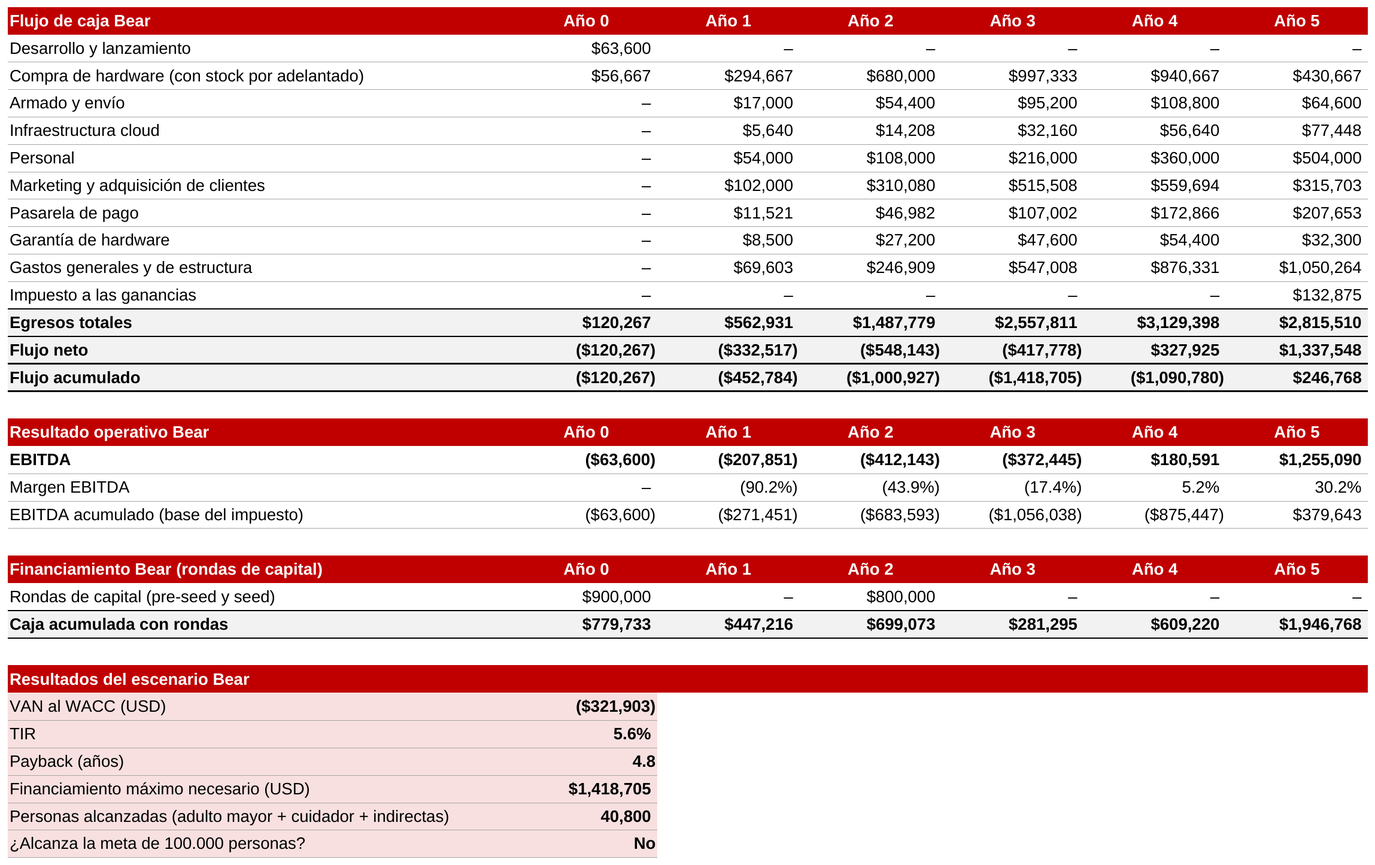
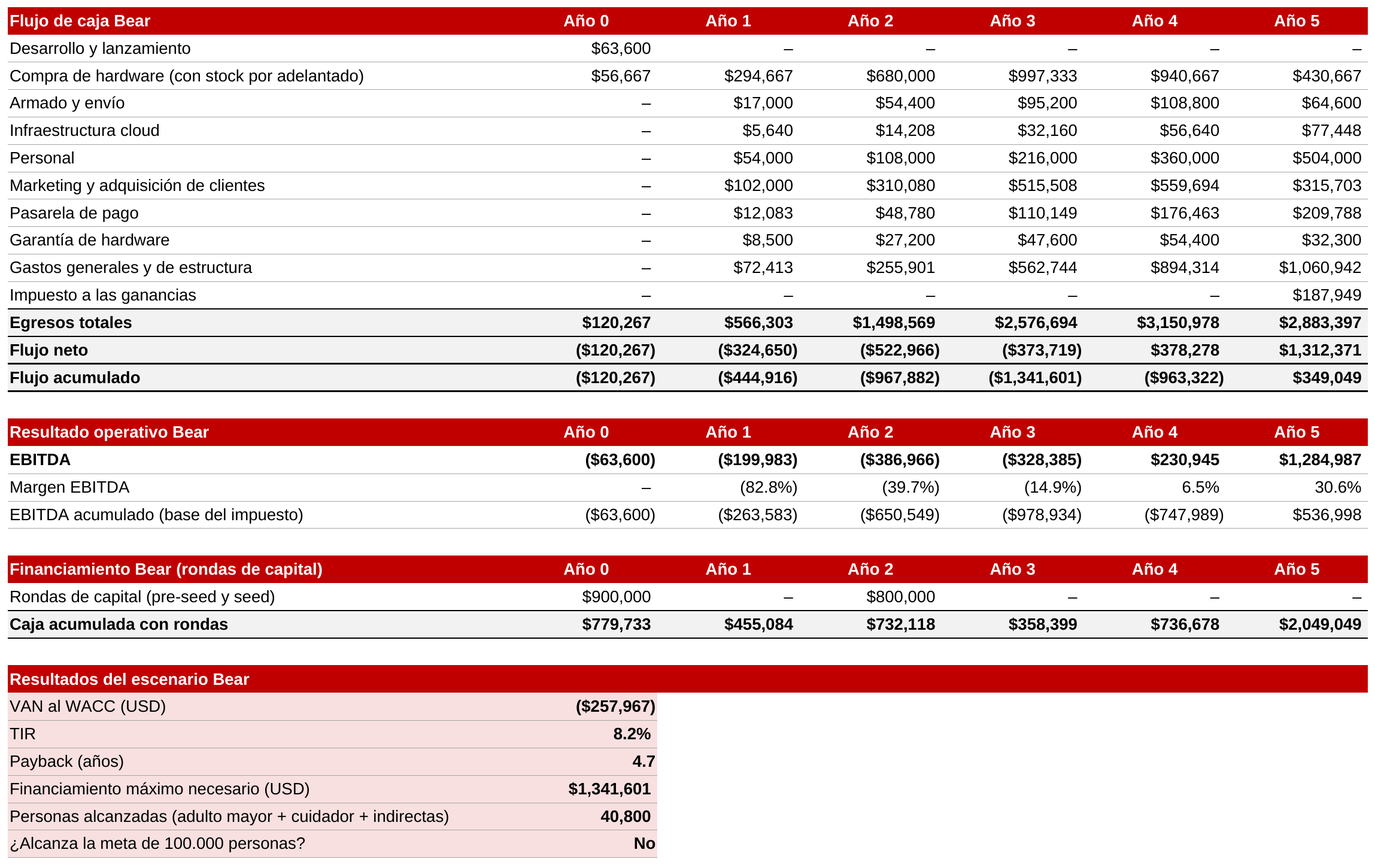
Corrige inconsistencias de la 3.9 y actualiza el modelo financiero a la v14
Resuelve el diagnóstico completo de la sección 3.9 (Modelo de negocio y
viabilidad económica): agrega precio por cámara IP adicional, alinea el
lenguaje de suscripción entre 3.6 y 3.9, actualiza el FODA y la nota de la
Tabla 3.III para reflejar que la 3.9 ya proyecta costos y precios, precisa
el respaldo del impacto social por kit en la entrevista y el User Persona
del Anexo, explica la diferencia entre la tarifa de desarrollo del año 0 y
el costo del equipo en régimen, y cita las fuentes del bono del Tesoro de
EE.UU., el EMBI y la Res. 316/2018 sobre baja de servicios.

Integra además la actualización v14 del modelo financiero (costo del kit
250/230/220 en Bear/Base/Bull, con la Raspberry Pi a precio minorista fijo
en los tres escenarios y el resto del kit variando por volumen), lo que
recalcula rondas de financiamiento, VAN, TIR, payback y la sensibilidad a
bajas de suscriptores en los tres escenarios. Corrige el precio de la
cámara adicional para que no quede por debajo de su costo neto de IVA,
y suma a la conclusión que la viabilidad del escenario Base depende de
retener clientes. Actualiza las 7 capturas del Excel y el Business Model
Canvas con los montos y la terminología vigentes.

diff --git a/chapters/chapter03.tex b/chapters/chapter03.tex
@@ -395,7 +395,7 @@ A partir del panorama competitivo y de las cinco fuerzas que estructuran ese mer
 La oferta combina hardware y software en un mismo paquete, compuesto por la cámara IP, la Raspberry Pi 5 que procesa localmente, y una aplicación móvil para el responsable a cargo. A diferencia de la teleasistencia por botón, no requiere ninguna acción del adulto mayor; a diferencia de las cámaras con IA como AltumView Sentinare, no se limita a detectar eventos discretos, sino que incorpora un segundo módulo que construye una línea base de comportamiento y detecta desvíos de rutina a lo largo del tiempo; y a diferencia de los asistentes conversacionales como Ato, no depende de que el adulto mayor hable o interactúe para generar valor, sino que monitorea de forma completamente pasiva. El producto es, entonces, la combinación de ambas capas, no cada una por separado.
 
 \paragraph{Precio:}
-AltumView Sentinare fija la referencia de mercado más cercana en la categoría de cámaras, entre USD 200 y 230 sin cuota mensual \parencite{AltumView}, pero cubre solo detección de eventos sobre una habitación. La arquitectura del sistema propuesto, dividida entre procesamiento local (RNF1) y un componente en la nube que sostiene la línea base y los reportes (RNF6, RNF7), sugiere naturalmente un esquema mixto, con un costo inicial por el hardware, similar en orden de magnitud al de AltumView, más una suscripción opcional que cubra el cómputo y almacenamiento en la nube del segundo módulo. Este esquema ya tiene precedente en el mismo segmento de cliente, dado que Ato cobra un dispositivo de entre USD 179 y 200 más una suscripción de USD 29 mensuales \parencite{Ato}, lo que sugiere que las familias de este segmento están dispuestas a aceptar un costo recurrente cuando el valor entregado es continuo. El esquema propio todavía no está validado con costos de producción reales, pero es coherente con la arquitectura y cuenta con un antecedente de mercado que respalda su viabilidad.
+AltumView Sentinare fija la referencia de mercado más cercana en la categoría de cámaras, entre USD 200 y 230 sin cuota mensual \parencite{AltumView}, pero cubre solo detección de eventos sobre una habitación. La arquitectura del sistema propuesto, dividida entre procesamiento local (RNF1) y un componente en la nube que sostiene la línea base y los reportes (RNF6, RNF7), sugiere naturalmente un esquema mixto, con un costo inicial por el hardware, similar en orden de magnitud al de AltumView, más una suscripción mensual que cubra el cómputo y almacenamiento en la nube del segundo módulo. Este esquema ya tiene precedente en el mismo segmento de cliente, dado que Ato cobra un dispositivo de entre USD 179 y 200 más una suscripción de USD 29 mensuales \parencite{Ato}, lo que sugiere que las familias de este segmento están dispuestas a aceptar un costo recurrente cuando el valor entregado es continuo. El esquema propio todavía no está validado con costos de producción reales, pero es coherente con la arquitectura y cuenta con un antecedente de mercado que respalda su viabilidad.
 
 \paragraph{Plaza:}
 El proyecto no cuenta hoy con canal de distribución propio. Dos vías parecen más viables que una tienda física, dado el perfil de comprador relevado en el User Research, cuidadores que ya buscan de forma activa una solución y se informan por redes o grupos de mensajería. La primera es la venta directa por canal digital, y la segunda son las alianzas institucionales con geriátricos, obras sociales o municipios interesados en programas de cuidado domiciliario, una oportunidad que se apoya en el crecimiento poblacional proyectado por INDEC \parencite{INDEC2024}. Esta segunda vía tiene además la ventaja de acortar el problema de confianza señalado en el análisis de Porter, porque la institución actúa como validador ante la familia.
@@ -427,7 +427,7 @@ A partir del panorama competitivo, las cinco fuerzas de Porter y el posicionamie
     \item \textbf{Validación limitada.} El prototipo todavía no fue probado en múltiples hogares reales ni a escala.
     \item \textbf{Sin canal de distribución propio.} Todavía no existe una estructura comercial ni soporte disponible las 24 horas.
     \item \textbf{Dependencia de conectividad domiciliaria.} El envío de alertas requiere una conexión a internet estable, algo que no está garantizado en todos los hogares.
-    \item \textbf{Modelo de costos sin validar.} A diferencia de AltumView Sentinare, que ya tiene un precio de referencia de mercado (USD 200-230 sin cuota mensual), el sistema propuesto todavía no cuenta con un costo de producción ni una estructura de precios validada frente a esa referencia.
+    \item \textbf{Modelo de costos sin validar.} A diferencia de AltumView Sentinare, que ya tiene un precio de referencia de mercado (USD 200-230 sin cuota mensual), el costo de producción y el precio de venta del sistema propuesto, proyectados en la Sección~\ref{sec:modelo-negocio}, todavía no están validados con ventas ni con costos reales de producción a escala.
 \end{itemize}
 
 \paragraph{Amenazas:}
@@ -480,8 +480,7 @@ Por lo tanto, permitir cámaras arbitrarias del usuario introduciría una depend
 En consecuencia, el kit incluye cámaras seleccionadas por el equipo para funcionar con la controladora, de modo que la privacidad que el sistema promete no dependa de una configuración que el usuario deba resolver por su cuenta.
 
 En cuanto al costo, se resume a continuación el presupuesto estimado, calculado a partir de una controladora y tres cámaras, la configuración prevista para el prototipo.
-Este presupuesto cubre únicamente el hardware del prototipo y no constituye un costo de producción ni una estructura de precios de venta, aspecto que queda señalado como pendiente de validar en la Sección~\ref{sec:foda}.
-Los costos de infraestructura en la nube tampoco se incluyen en la tabla y quedan pendientes de estimar.
+Este presupuesto cubre únicamente el hardware del prototipo y no constituye un costo de producción ni una estructura de precios de venta a escala; la proyección de ambos, junto con los costos de infraestructura en la nube, se desarrolla en la Sección~\ref{sec:modelo-negocio} y queda señalada como pendiente de validar en la Sección~\ref{sec:foda}.
 
 \begin{table}[h!]
 \centering
@@ -599,22 +598,23 @@ Se define qué se vende y a qué precio, a cuánta gente se puede llegar y cuán
 
 La oferta se compone de un kit inicial y una suscripción mensual.
 El kit incluye una Raspberry Pi 5 de 8 GB, una cámara IP, la fuente de alimentación, la tarjeta microSD y una carcasa con disipador, y se entrega configurado para su uso.
-Se propone un precio final de USD 230 por el kit y de USD 30 por mes por la suscripción, que incluye el procesamiento en la nube de la línea base, los reportes, las notificaciones y las actualizaciones.
+Se propone un precio final de USD 250 por el kit y de USD 30 por mes por la suscripción, que incluye el procesamiento en la nube de la línea base, los reportes, las notificaciones y las actualizaciones.
+Cada cámara IP adicional, hasta el máximo de tres por controladora descripto en la Sección~\ref{sec:viabilidad-tecnica}, se cobra por separado a USD 19 con IVA incluido, un precio que cubre su costo unitario de USD 15 relevado en la Tabla~\ref{tab:presupuesto-hardware} una vez descontado el IVA.
 
 Ambos precios incluyen IVA.
 En el modelo se cargan sin IVA, es decir, divididos por 1,21, porque ese impuesto se cobra al cliente pero se entrega al fisco y no constituye un ingreso del negocio.
 Por la misma razón el análisis se realiza sobre valores netos y tampoco incorpora el impuesto sobre los ingresos brutos.
 
 Como referencia, AltumView Sentinare cuesta entre USD 200 y 230 sin cuota mensual \parencite{AltumView}, mientras que Ato cobra un dispositivo de entre USD 179 y 200 más USD 29 por mes \parencite{Ato}.
-El kit queda en el extremo superior de ese rango y la suscripción en línea con la de Ato, aunque a diferencia de AltumView se cobra una cuota mensual.
+El kit queda por encima de ese rango y la suscripción en línea con la de Ato, aunque a diferencia de AltumView se cobra una cuota mensual.
 La encuesta no relevó disposición a pagar, por lo que este valor constituye un supuesto que debe validarse en etapas posteriores.
 
 La lógica del negocio se entiende mejor mirando a un cliente promedio del escenario Base.
-El kit cuesta USD 200 en componentes, a lo que se suman USD 25 de armado y envío y USD 10 de garantía.
+El kit cuesta USD 230 en componentes, a lo que se suman USD 25 de armado y envío y USD 12 de garantía.
 Además hay que sumar el costo de conseguir al cliente, que en el primer año es de USD 130.
-En total se gastan unos USD 365 por cada cliente nuevo.
-Por el kit se cobran USD 230 con IVA incluido, y lo que queda para el negocio después de descontar el IVA, la comisión de cobro y la estructura comercial es de unos USD 133.
-La inversión neta por cliente es entonces de unos USD 232, como muestra la Tabla~\ref{tab:cuenta-cliente}.
+En total se gastan unos USD 397 por cada cliente nuevo.
+Por el kit se cobran USD 250 con IVA incluido, y lo que queda para el negocio después de descontar el IVA, la comisión de cobro y la estructura comercial es de unos USD 145.
+La inversión neta por cliente es entonces de unos USD 252, como muestra la Tabla~\ref{tab:cuenta-cliente}.
 
 \begin{table}[H]
 \centering
@@ -624,25 +624,25 @@ La inversión neta por cliente es entonces de unos USD 232, como muestra la Tabl
 \hline
 \textbf{Concepto} & \textbf{USD} \\
 \hline
-Costo del kit (hardware) & 200 \\
+Costo del kit (hardware) & 230 \\
 \hline
 Armado y envío & 25 \\
 \hline
-Garantía (5\,\% del costo del kit) & 10 \\
+Garantía (5\,\% del costo del kit) & 12 \\
 \hline
 Costo de conseguir al cliente (año 1) & 130 \\
 \hline
-\textbf{Total que sale por cliente nuevo} & \textbf{365} \\
+\textbf{Total que sale por cliente nuevo} & \textbf{397} \\
 \hline
-Se resta el ingreso neto de la venta del kit (sin IVA, comisiones ni estructura comercial) & 133 \\
+Se resta el ingreso neto de la venta del kit (sin IVA, comisiones ni estructura comercial) & 145 \\
 \hline
-\textbf{Inversión neta por cliente} & \textbf{232} \\
+\textbf{Inversión neta por cliente} & \textbf{252} \\
 \hline
 \end{tabular}
 \end{table}
 
 Cada mes de suscripción deja unos USD 17 luego de descontar la comisión de cobro, la estructura comercial y la nube.
-Con ese margen, cada cliente recupera su inversión en unos catorce meses y desde ese momento genera ganancia.
+Con ese margen, cada cliente recupera su inversión en unos quince meses y desde ese momento genera ganancia.
 En otras palabras, el kit se vende por debajo de su costo para facilitar la compra, y la rentabilidad proviene de la suscripción.
 La cuenta es orientativa, ya que no incluye al equipo ni los gastos fijos, que sí forman parte del modelo completo.
 
@@ -650,7 +650,7 @@ Ese plazo de recuperación es el punto sensible del negocio, porque un cliente q
 Por eso la suscripción se ofrece con una permanencia mínima de 12 meses.
 En la práctica, el cliente acepta esa permanencia al contratar y, si se da de baja antes, abona un cargo proporcional a lo que resta de los 12 meses.
 De este modo el riesgo de bajas tempranas queda cubierto durante casi todo el período de recuperación.
-La forma concreta de instrumentarla, incluido su encuadre en la normativa de defensa del consumidor, debe definirse con asesoramiento legal.
+La forma concreta de instrumentarla, en particular su compatibilidad con el derecho a dar de baja un servicio contratado a distancia en cualquier momento que establece el artículo 10 ter de la Ley N.º 24.240 de Defensa del Consumidor y su reglamentación \parencite{Argentina2018}, debe definirse con asesoramiento legal profesional.
 
 \subsubsection{Mercado objetivo}
 \label{sec:mercado-objetivo}
@@ -694,12 +694,14 @@ El año 0 corresponde al desarrollo y al lanzamiento.
 El desarrollo se estima en USD 20 por hora y 160 horas mensuales, aplicados a dos personas durante nueve meses, lo que da USD 57.600.
 A ese monto se suman USD 6.000 de lanzamiento y aspectos legales.
 
-El costo del kit varía según el escenario y es de USD 250, 200 y 190 en Bear, Base y Bull, respectivamente.
-La diferencia refleja descuentos por volumen.
-La Raspberry Pi 5 de 8 GB, que es el componente principal, cuesta USD 175 \parencite{PiShop2026} a la escala de compra mayorista prevista para producción, un valor menor al de la unidad relevada en Mercado Libre para el prototipo (Sección~\ref{sec:viabilidad-tecnica}), ya que la producción a escala contempla además la posibilidad de importar directamente.
+El costo del kit varía según el escenario y es de USD 250, 230 y 220 en Bear, Base y Bull, respectivamente.
+La Raspberry Pi 5 de 8 GB, que es el componente principal, se fija en USD 175 a precio minorista \parencite{PiShop2026} y se mantiene en ese valor en los tres escenarios, sin suponer ningún descuento sobre la placa, un valor menor al de la unidad relevada en Mercado Libre para el prototipo (Sección~\ref{sec:viabilidad-tecnica}).
+Lo que varía entre escenarios es el resto del kit, la cámara, la fuente, la tarjeta microSD, la carcasa y la logística, que suma USD 75, 55 y 45 respectivamente, según el descuento por volumen y la posibilidad de importar directamente que se logren en cada caso.
+Es un supuesto propio que debe validarse con cotizaciones firmes, ya que los revendedores locales llegan a ofrecer la placa a un precio bastante mayor al de PiShop \parencite{Siranet2026}, por lo que alcanzar la escala prevista en Base y Bull requeriría un acuerdo de importación directa o de volumen con el proveedor.
 El hardware se compra con cuatro meses de anticipación, por lo que en los primeros años hay que pagar los kits antes de venderlos y esto aumenta el financiamiento necesario.
 
-El equipo se estima en USD 1.500 por persona por mes.
+El equipo en régimen se estima en USD 1.500 por persona por mes.
+La diferencia con la tarifa de desarrollo del año 0 se debe a que ese desarrollo inicial se valúa a precio de mercado por hora, como un trabajo puntual de profesionales especializados en visión por computadora y aprendizaje automático, mientras que el equipo estable de los años 1 a 5 se estima por su costo mensual total en relación de dependencia, con perfiles de distintos niveles; ambos valores son supuestos propios.
 Se parte de un núcleo de desarrollo y gestión que crece con cada escenario y se agrega un agente de soporte cada 500 suscripciones.
 La estructura comercial y de gerencia se calcula como el 25\,\% de las ventas, bajo el supuesto de que la parte comercial está tercerizada y se paga por comisiones de canal.
 Para el impuesto a las ganancias se toma la alícuota de 35\,\% \parencite{ARCA2026}, con compensación de quebrantos de años anteriores.
@@ -712,7 +714,7 @@ La Figura~\ref{fig:supuestos} muestra la hoja del modelo con los supuestos comun
 Como el proyecto pierde dinero durante los primeros años, se financia con rondas de inversión de capital y no con deuda.
 Se supone una ronda pre-seed en el año 0 y una ronda seed al inicio del año 2, con montos crecientes según el escenario (Tabla~\ref{tab:rondas}).
 En los tres casos el capital levantado supera el financiamiento máximo necesario, lo que deja un colchón de caja.
-Una vez incorporadas las rondas, la caja mínima es de USD 281.000 en Bear, USD 446.000 en Base y USD 286.000 en Bull.
+Una vez incorporadas las rondas, la caja mínima es de USD 358.000 en Bear, USD 392.000 en Base y USD 230.000 en Bull.
 
 \begin{table}[H]
 \centering
@@ -722,13 +724,13 @@ Una vez incorporadas las rondas, la caja mínima es de USD 281.000 en Bear, USD 
 \hline
 \textbf{Concepto} & \textbf{Bear} & \textbf{Base} & \textbf{Bull} \\
 \hline
-Ronda pre-seed (año 0) & 900.000 & 1.200.000 & 1.400.000 \\
+Ronda pre-seed (año 0) & 900.000 & 1.300.000 & 1.500.000 \\
 \hline
-Ronda seed (inicio del año 2) & 800.000 & 1.100.000 & 1.500.000 \\
+Ronda seed (inicio del año 2) & 800.000 & 1.300.000 & 1.800.000 \\
 \hline
-\textbf{Total levantado} & \textbf{1.700.000} & \textbf{2.300.000} & \textbf{2.900.000} \\
+\textbf{Total levantado} & \textbf{1.700.000} & \textbf{2.600.000} & \textbf{3.300.000} \\
 \hline
-Financiamiento máximo necesario & 1.419.000 & 1.767.000 & 2.211.000 \\
+Financiamiento máximo necesario & 1.342.000 & 2.208.000 & 2.776.000 \\
 \hline
 \end{tabular}
 \end{table}
@@ -741,9 +743,9 @@ La tasa de descuento representa el rendimiento mínimo que exigiría un inversor
 Se calcula con el modelo de valoración de activos de capital, conocido como CAPM \parencite{Sharpe1964}, al que se suma el riesgo país de Argentina.
 Como el proyecto se financia solo con capital propio y sin deuda, el costo promedio ponderado del capital (WACC) coincide con el costo del capital propio.
 
-La tasa libre de riesgo corresponde al bono del Tesoro de Estados Unidos a 10 años al 29 de septiembre de 2026.
+La tasa libre de riesgo corresponde al bono del Tesoro de Estados Unidos a 10 años al 29 de septiembre de 2026 \parencite{Treasury2026}.
 La beta es el promedio de las betas desapalancadas de tres industrias cercanas al producto, que son el software, la tecnología de la información en salud y la electrónica de consumo, publicadas en la base de datos sectorial de enero de 2026 \parencite{Damodaran2026}.
-El riesgo país es el EMBI de Argentina al 28 de septiembre de 2026.
+El riesgo país es el EMBI de Argentina al 28 de septiembre de 2026, día en el que cerró en 628 puntos básicos tras una jornada de fuerte volatilidad \parencite{Infobae2026}.
 La prima por tamaño y etapa temprana es un supuesto propio que puede modificarse en el modelo.
 El resultado es una tasa de 19,83\,\%, que se utiliza en todo el análisis, según el detalle de la Figura~\ref{fig:wacc}.
 
@@ -767,8 +769,8 @@ Cada escenario informa además las personas alcanzadas, cuyo criterio de cálcul
 
 En el escenario Bear, que es el pesimista, la penetración es del 1\,\%, el kit cuesta USD 250 y el CAC parte de USD 150 y baja solo 5\,\% por año.
 El resultado operativo es negativo hasta el año 3 y recién pasa a ser positivo en el año 4.
-El flujo acumulado toca su punto más bajo en USD $-$1,42 millones, que es el financiamiento máximo necesario, y se vuelve levemente positivo en el año 5, con USD 247.000.
-El VAN es de USD $-$321.903 y la TIR de 5,6\,\%, muy por debajo de la tasa de descuento, por lo que el proyecto no alcanza el rendimiento exigido.
+El flujo acumulado toca su punto más bajo en USD $-$1,34 millones, que es el financiamiento máximo necesario, y se vuelve positivo en el año 5, con USD 349.000.
+El VAN es de USD $-$257.967 y la TIR de 8,2\,\%, muy por debajo de la tasa de descuento, por lo que el proyecto no alcanza el rendimiento exigido.
 Además llega a 40.800 personas, por debajo de la meta de 100.000.
 Con poca adopción, un hardware caro y clientes difíciles de conseguir, el negocio sobrevive pero no compensa el riesgo asumido.
 
@@ -778,12 +780,12 @@ Con poca adopción, un hardware caro y clientes difíciles de conseguir, el nego
 \subsubsection{Escenario Base}
 
 El escenario Base es el principal.
-Supone una penetración del 2,5\,\% (34.000 kits), un kit que cuesta USD 200 en componentes y un CAC que parte de USD 130 y baja 10\,\% por año hasta USD 85.
+Supone una penetración del 2,5\,\% (34.000 kits), un kit que cuesta USD 230 en componentes y un CAC que parte de USD 130 y baja 10\,\% por año hasta USD 85.
 Los años 1 a 3 son de pérdida, porque se compra hardware por adelantado y se consiguen clientes antes de cobrar las suscripciones.
-En el año 4 el EBITDA pasa a ser positivo, con un margen del 16\,\%, y en el año 5 llega a USD 3,7 millones, con un margen del 36\,\%.
-El flujo acumulado toca su punto más bajo en USD $-$1,77 millones y la inversión se recupera en 4,1 años.
-El VAN es de USD 575.998 y la TIR de 34,1\,\%, por encima del 19,83\,\% exigido, y el escenario alcanza 102.000 personas, con lo que cumple la meta social.
-El proyecto es rentable en el escenario esperado, con la particularidad de que requiere un capital inicial importante, de USD 2,3 millones en dos rondas, porque tarda cuatro años en recuperarse.
+En el año 4 el EBITDA pasa a ser positivo, con un margen del 13\,\%, y en el año 5 llega a USD 3,6 millones, con un margen del 34\,\%.
+El flujo acumulado toca su punto más bajo en USD $-$2,21 millones y la inversión se recupera en 4,2 años.
+El VAN es de USD 273.683 y la TIR de 26,0\,\%, por encima del 19,83\,\% exigido, y el escenario alcanza 102.000 personas, con lo que cumple la meta social.
+El proyecto es rentable en el escenario esperado, con la particularidad de que requiere un capital inicial importante, de USD 2,6 millones en dos rondas, porque tarda cuatro años en recuperarse.
 
 % CAPTURA 4: hoja "Base", filas 2 a 15 (kits, suscripciones, CAC e ingresos por año).
 \figuraexcel{captura_base_datos.png}{0.95}{Kits, suscripciones, costo de adquisición e ingresos del escenario Base.}{fig:base-datos}
@@ -793,13 +795,13 @@ El proyecto es rentable en el escenario esperado, con la particularidad de que r
 
 \subsubsection{Escenario Bull}
 
-En el escenario Bull, que es el optimista, la penetración es del 4,4\,\% (60.000 kits), el kit cuesta USD 190 y el CAC parte de USD 110 y baja 12\,\% por año hasta USD 66.
+En el escenario Bull, que es el optimista, la penetración es del 4,4\,\% (60.000 kits), el kit cuesta USD 220 y el CAC parte de USD 110 y baja 12\,\% por año hasta USD 66.
 Además se cuentan dos personas indirectas por kit.
-El EBITDA es positivo desde el año 3 y el flujo acumulado supera el cero en el año 4, con un payback de 3,7 años.
-En el año 5 el margen EBITDA es de 38\,\%.
-El VAN es de USD 1.867.933 y la TIR de 49,7\,\%, claramente por encima de la tasa de descuento, y el escenario alcanza 240.000 personas.
+El EBITDA es positivo desde el año 3 y el flujo acumulado supera el cero en el año 4, con un payback de 4,0 años.
+En el año 5 el margen EBITDA es de 37\,\%.
+El VAN es de USD 1.344.075 y la TIR de 39,3\,\%, claramente por encima de la tasa de descuento, y el escenario alcanza 240.000 personas.
 Si la adopción crece según lo previsto, el negocio no solo se paga sino que deja retorno de sobra.
-Por ser más grande, también necesita más capital, con un financiamiento máximo de USD 2,21 millones.
+Por ser más grande, también necesita más capital, con un financiamiento máximo de USD 2,78 millones.
 
 % CAPTURA 6: hoja "Bull", filas 17 a 47.
 \figuraexcel{captura_bull_flujo.png}{0.95}{Flujo de caja y resultados del escenario Bull.}{fig:bull}
@@ -809,7 +811,7 @@ Por ser más grande, también necesita más capital, con un financiamiento máxi
 Además del resultado económico, el proyecto se propone alcanzar al menos 100.000 personas.
 Por cada kit vendido se cuentan el adulto mayor, que es el beneficiario directo, el cuidador, que es el usuario directo, y una persona indirecta, como otro familiar que se entera del estado del adulto mayor.
 En el escenario Bull se cuentan dos personas indirectas por kit.
-La encuesta respalda que en cada caso hay más de una persona involucrada además del cuidador principal.
+Aunque el monitoreo se realiza sobre un único adulto mayor por instalación, como se estableció en el Alcance (Sección~\ref{sec:limitaciones-exclusiones}), el impacto de cada kit alcanza a más de una persona, ya que además del cuidador principal suele haber otros familiares que también reciben la información del sistema, tal como surge de la entrevistada que se turna con sus hermanos para visitar a su madre y del User Persona de la cuidadora a distancia, que necesita coordinarse con sus hermanos con información objetiva (Anexo~\ref{anexo:entrevistas}; Anexo~\ref{anexo:user_persona}).
 Con este criterio, el escenario Base alcanza 102.000 personas, que surgen de multiplicar por tres los 34.000 kits vendidos.
 
 \subsubsection{Comparación de escenarios}
@@ -830,25 +832,25 @@ Penetración a 5 años & 1\,\% & 2,5\,\% & 4,4\,\% \\
 \hline
 Kits vendidos en 5 años & 13.600 & 34.000 & 60.000 \\
 \hline
-Costo del kit (USD) & 250 & 200 & 190 \\
+Costo del kit (USD) & 250 & 230 & 220 \\
 \hline
 CAC del año 1 al año 5 (USD) & 150 a 122 & 130 a 85 & 110 a 66 \\
 \hline
-Capital levantado (USD) & 1.700.000 & 2.300.000 & 2.900.000 \\
+Capital levantado (USD) & 1.700.000 & 2.600.000 & 3.300.000 \\
 \hline
-Ingresos del año 5 (USD) & 4.153.000 & 10.383.000 & 18.322.000 \\
+Ingresos del año 5 (USD) & 4.196.000 & 10.489.000 & 18.511.000 \\
 \hline
-EBITDA del año 5 (USD) & 1.255.000 & 3.739.000 & 6.995.000 \\
+EBITDA del año 5 (USD) & 1.285.000 & 3.610.000 & 6.768.000 \\
 \hline
-Margen EBITDA del año 5 & 30\,\% & 36\,\% & 38\,\% \\
+Margen EBITDA del año 5 & 31\,\% & 34\,\% & 37\,\% \\
 \hline
-Financiamiento máximo necesario (USD) & 1.419.000 & 1.767.000 & 2.211.000 \\
+Financiamiento máximo necesario (USD) & 1.342.000 & 2.208.000 & 2.776.000 \\
 \hline
-VAN al 19,83\,\% (USD) & $-$321.903 & 575.998 & 1.867.933 \\
+VAN al 19,83\,\% (USD) & $-$257.967 & 273.683 & 1.344.075 \\
 \hline
-TIR & 5,6\,\% & 34,1\,\% & 49,7\,\% \\
+TIR & 8,2\,\% & 26,0\,\% & 39,3\,\% \\
 \hline
-Payback (años) & 4,8 & 4,1 & 3,7 \\
+Payback (años) & 4,7 & 4,2 & 4,0 \\
 \hline
 Personas alcanzadas & 40.800 & 102.000 & 240.000 \\
 \hline
@@ -863,11 +865,11 @@ Cumple la meta de 100.000 personas & No & Sí & Sí \\
 Estos resultados deben leerse con algunas precauciones.
 En primer lugar, todo depende de la penetración y del canal de venta.
 En el escenario Base se venden 1.700 kits en el primer año y casi 11.000 en el cuarto, y sostener ese ritmo requiere que la adopción efectivamente acelere año a año como prevé el modelo, algo que todavía debe validarse.
-En segundo lugar, el costo del kit es la variable que más mueve el resultado, ya que con un kit de USD 250 en lugar de USD 200 el VAN del escenario Base pasa a ser negativo.
+En segundo lugar, el costo del kit es la variable que más mueve el resultado, ya que con un costo de kit de USD 250 en lugar de USD 230 el VAN del escenario Base pasa a ser negativo.
 Por eso resulta importante asegurar precios de volumen con los proveedores.
 En tercer lugar, el modelo trabaja con suscripciones netas, es decir, no descuenta clientes que se dan de baja.
 Para medir cuánto pesa este supuesto se repitió el cálculo del escenario Base aplicando una tasa de bajas anual sobre las suscripciones (Tabla~\ref{tab:bajas}).
-El VAN se hace cero con bajas de alrededor de 12\,\% anual, de modo que el negocio soporta cierta rotación pero no una alta.
+El VAN se hace cero con bajas de alrededor de 5\,\% anual, de modo que el negocio soporta muy poca rotación de suscriptores.
 Como los datos de retención no existen todavía y el prototipo no permite medirlos, la permanencia mínima y la validación en un piloto son las principales defensas frente a este riesgo.
 
 \begin{table}[H]
@@ -878,17 +880,17 @@ Como los datos de retención no existen todavía y el prototipo no permite medir
 \hline
 \textbf{Bajas anuales} & \textbf{VAN (USD)} & \textbf{TIR} \\
 \hline
-0\,\% (modelo) & 575.998 & 34,1\,\% \\
+0\,\% (modelo) & 273.683 & 26,0\,\% \\
 \hline
-5\,\% & 331.620 & 28,3\,\% \\
+5\,\% & 19.394 & 20,3\,\% \\
 \hline
-10\,\% & 94.736 & 22,3\,\% \\
+10\,\% & $-$217.534 & 14,8\,\% \\
 \hline
-15\,\% & $-$121.942 & 16,6\,\% \\
+15\,\% & $-$434.213 & 9,6\,\% \\
 \hline
-20\,\% & $-$337.777 & 10,9\,\% \\
+20\,\% & $-$650.048 & 4,3\,\% \\
 \hline
-30\,\% & $-$724.651 & 0,3\,\% \\
+30\,\% & $-$1.127.473 & $-$8,3\,\% \\
 \hline
 \end{tabular}
 \end{table}
@@ -900,6 +902,7 @@ Se trata de una aproximación para comparar escenarios y no de un pronóstico.
 \subsection{Conclusión del análisis económico}
 
 El modelo mixto de kit y suscripción resulta viable en el escenario esperado y muy atractivo en el optimista, aunque requiere capital inicial y depende de alcanzar el volumen de ventas previsto.
-Con los supuestos adoptados, el escenario Base supera la tasa de descuento con una TIR de 34,1\,\%, recupera la inversión en 4,1 años y alcanza a 102.000 personas.
+Con los supuestos adoptados, el escenario Base supera la tasa de descuento con una TIR de 26,0\,\%, recupera la inversión en 4,2 años y alcanza a 102.000 personas.
 El escenario Bear, en cambio, no es rentable, lo que muestra que la adopción y el costo de conseguir clientes son los factores críticos.
+Esa viabilidad del escenario Base es, además, angosta, porque el VAN se anula con apenas 5\,\% de bajas anuales (Tabla~\ref{tab:bajas}), de modo que retener a los clientes durante el primer año es tan determinante para el resultado como conseguirlos.
 Los próximos pasos para reducir la incertidumbre son obtener cotizaciones firmes de los componentes, relevar la disposición a pagar de los cuidadores y validar con un piloto que el boca a boca reduce el costo de adquisición tal como asume el modelo.

diff --git a/chapters/chapter01.tex b/chapters/chapter01.tex
@@ -37,6 +37,7 @@ Desarrollar un sistema de monitoreo no invasivo para adultos mayores en entornos
 El proyecto abarca el diseño e implementación de un prototipo funcional compuesto por dos módulos principales. El primero realiza el análisis visual mediante un pipeline que combina un modelo de estimación de poses para la detección en tiempo real de eventos agudos, como caídas e inmovilidad prolongada, con consultas periódicas al modelo de lenguaje visual (VLM) para la clasificación semántica de actividades de la vida diaria (AVD). El segundo construye y actualiza de forma continua una línea base de comportamiento personalizada por usuario mediante clustering dinámico, permitiendo identificar desvíos significativos en la rutina diaria como señales tempranas de deterioro funcional. El procesamiento de video se ejecuta localmente en una controladora conectada a cámaras IP, garantizando que los registros visuales no salgan del domicilio; únicamente los eventos detectados y las clasificaciones de actividad se transmiten a la nube para el envío de notificaciones y el registro de actividad. El sistema incluye además una aplicación móvil para la visualización de alertas y reportes, y se valida en un entorno doméstico controlado mediante escenarios simulados. El modelo de estimación de poses y el modelo de lenguaje visual se emplean preentrenados, sin reentrenar sus pesos; los conjuntos de datos públicos utilizados sirven para calibrar los umbrales de la heurística de detección de caídas e inmovilidad y para entrenar un clasificador liviano sobre los embeddings que ya genera el modelo de lenguaje visual. El origen y el tratamiento de esos datos se detallan en la Sección~\ref{sec:datasets}.
 
 \subsection{Limitaciones y exclusiones}
+\label{sec:limitaciones-exclusiones}
 
 El prototipo no contempla integración con sistemas médicos externos ni producción a escala comercial. El sistema está diseñado exclusivamente para entornos domésticos y no es aplicable a instituciones de salud, geriátricos ni espacios públicos. Tampoco incluye soporte para múltiples adultos mayores en distintos hogares de forma simultánea, ni vinculación con servicios de emergencia o atención médica profesional.
 
